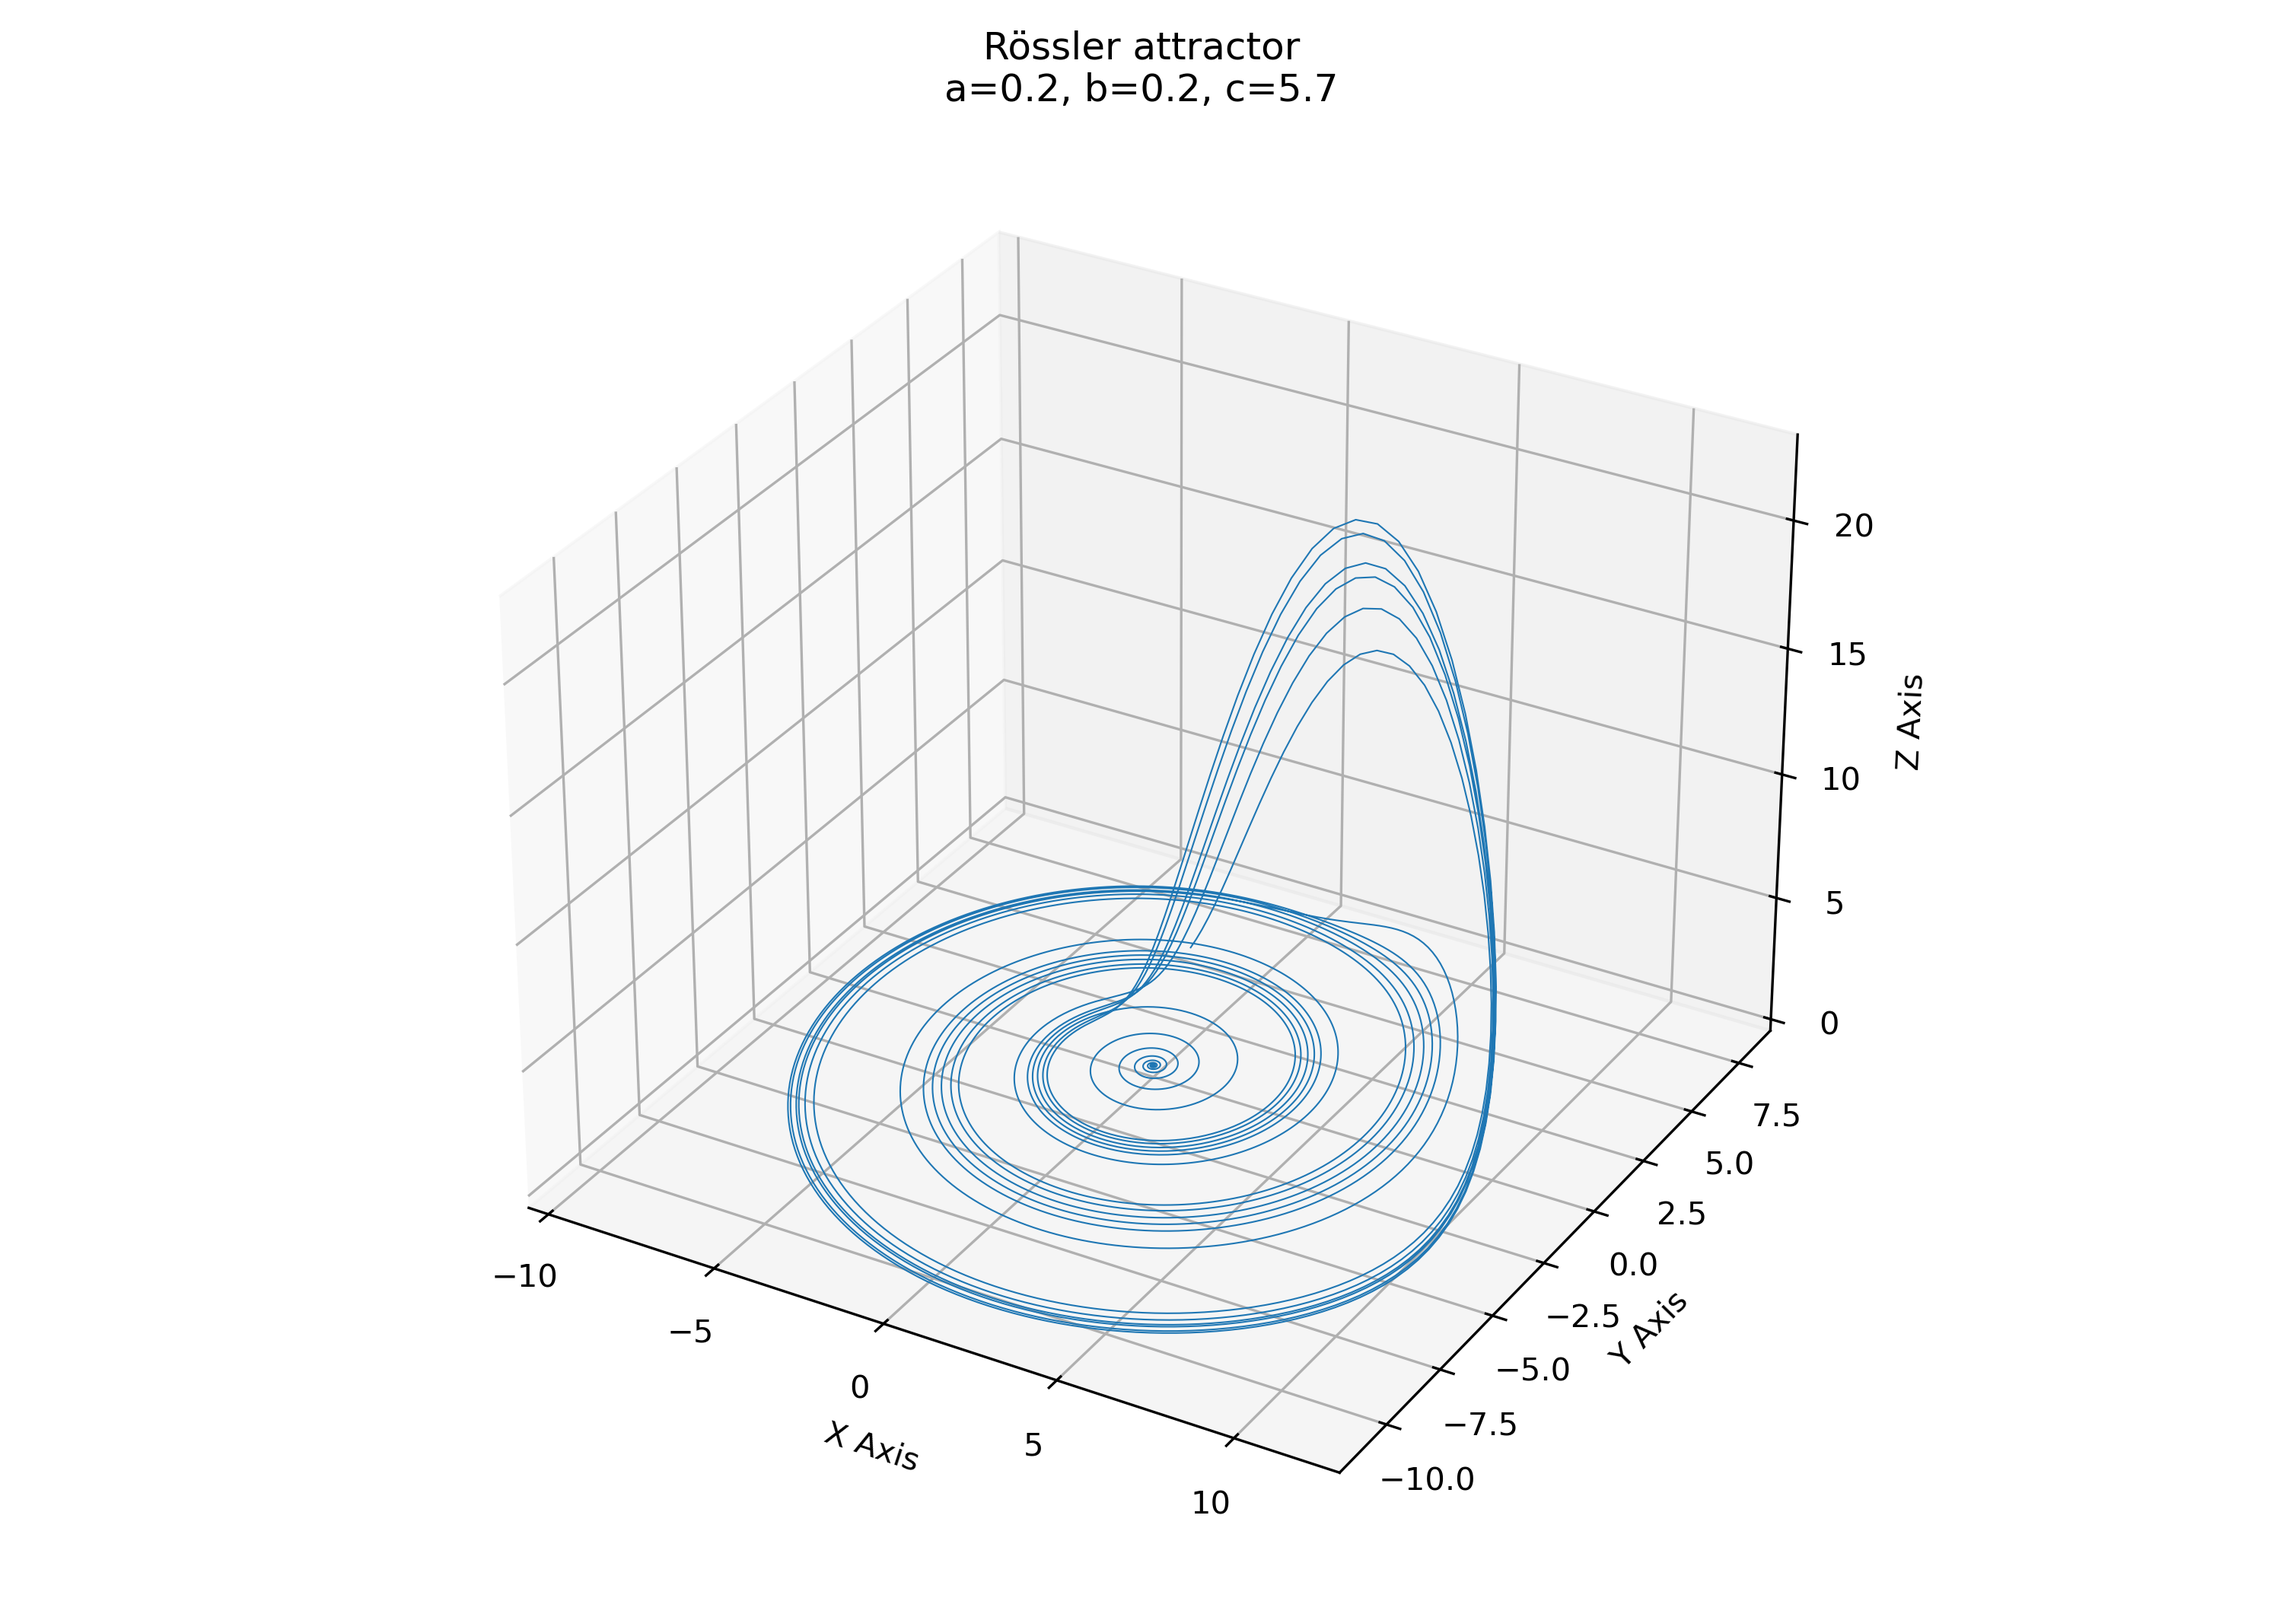
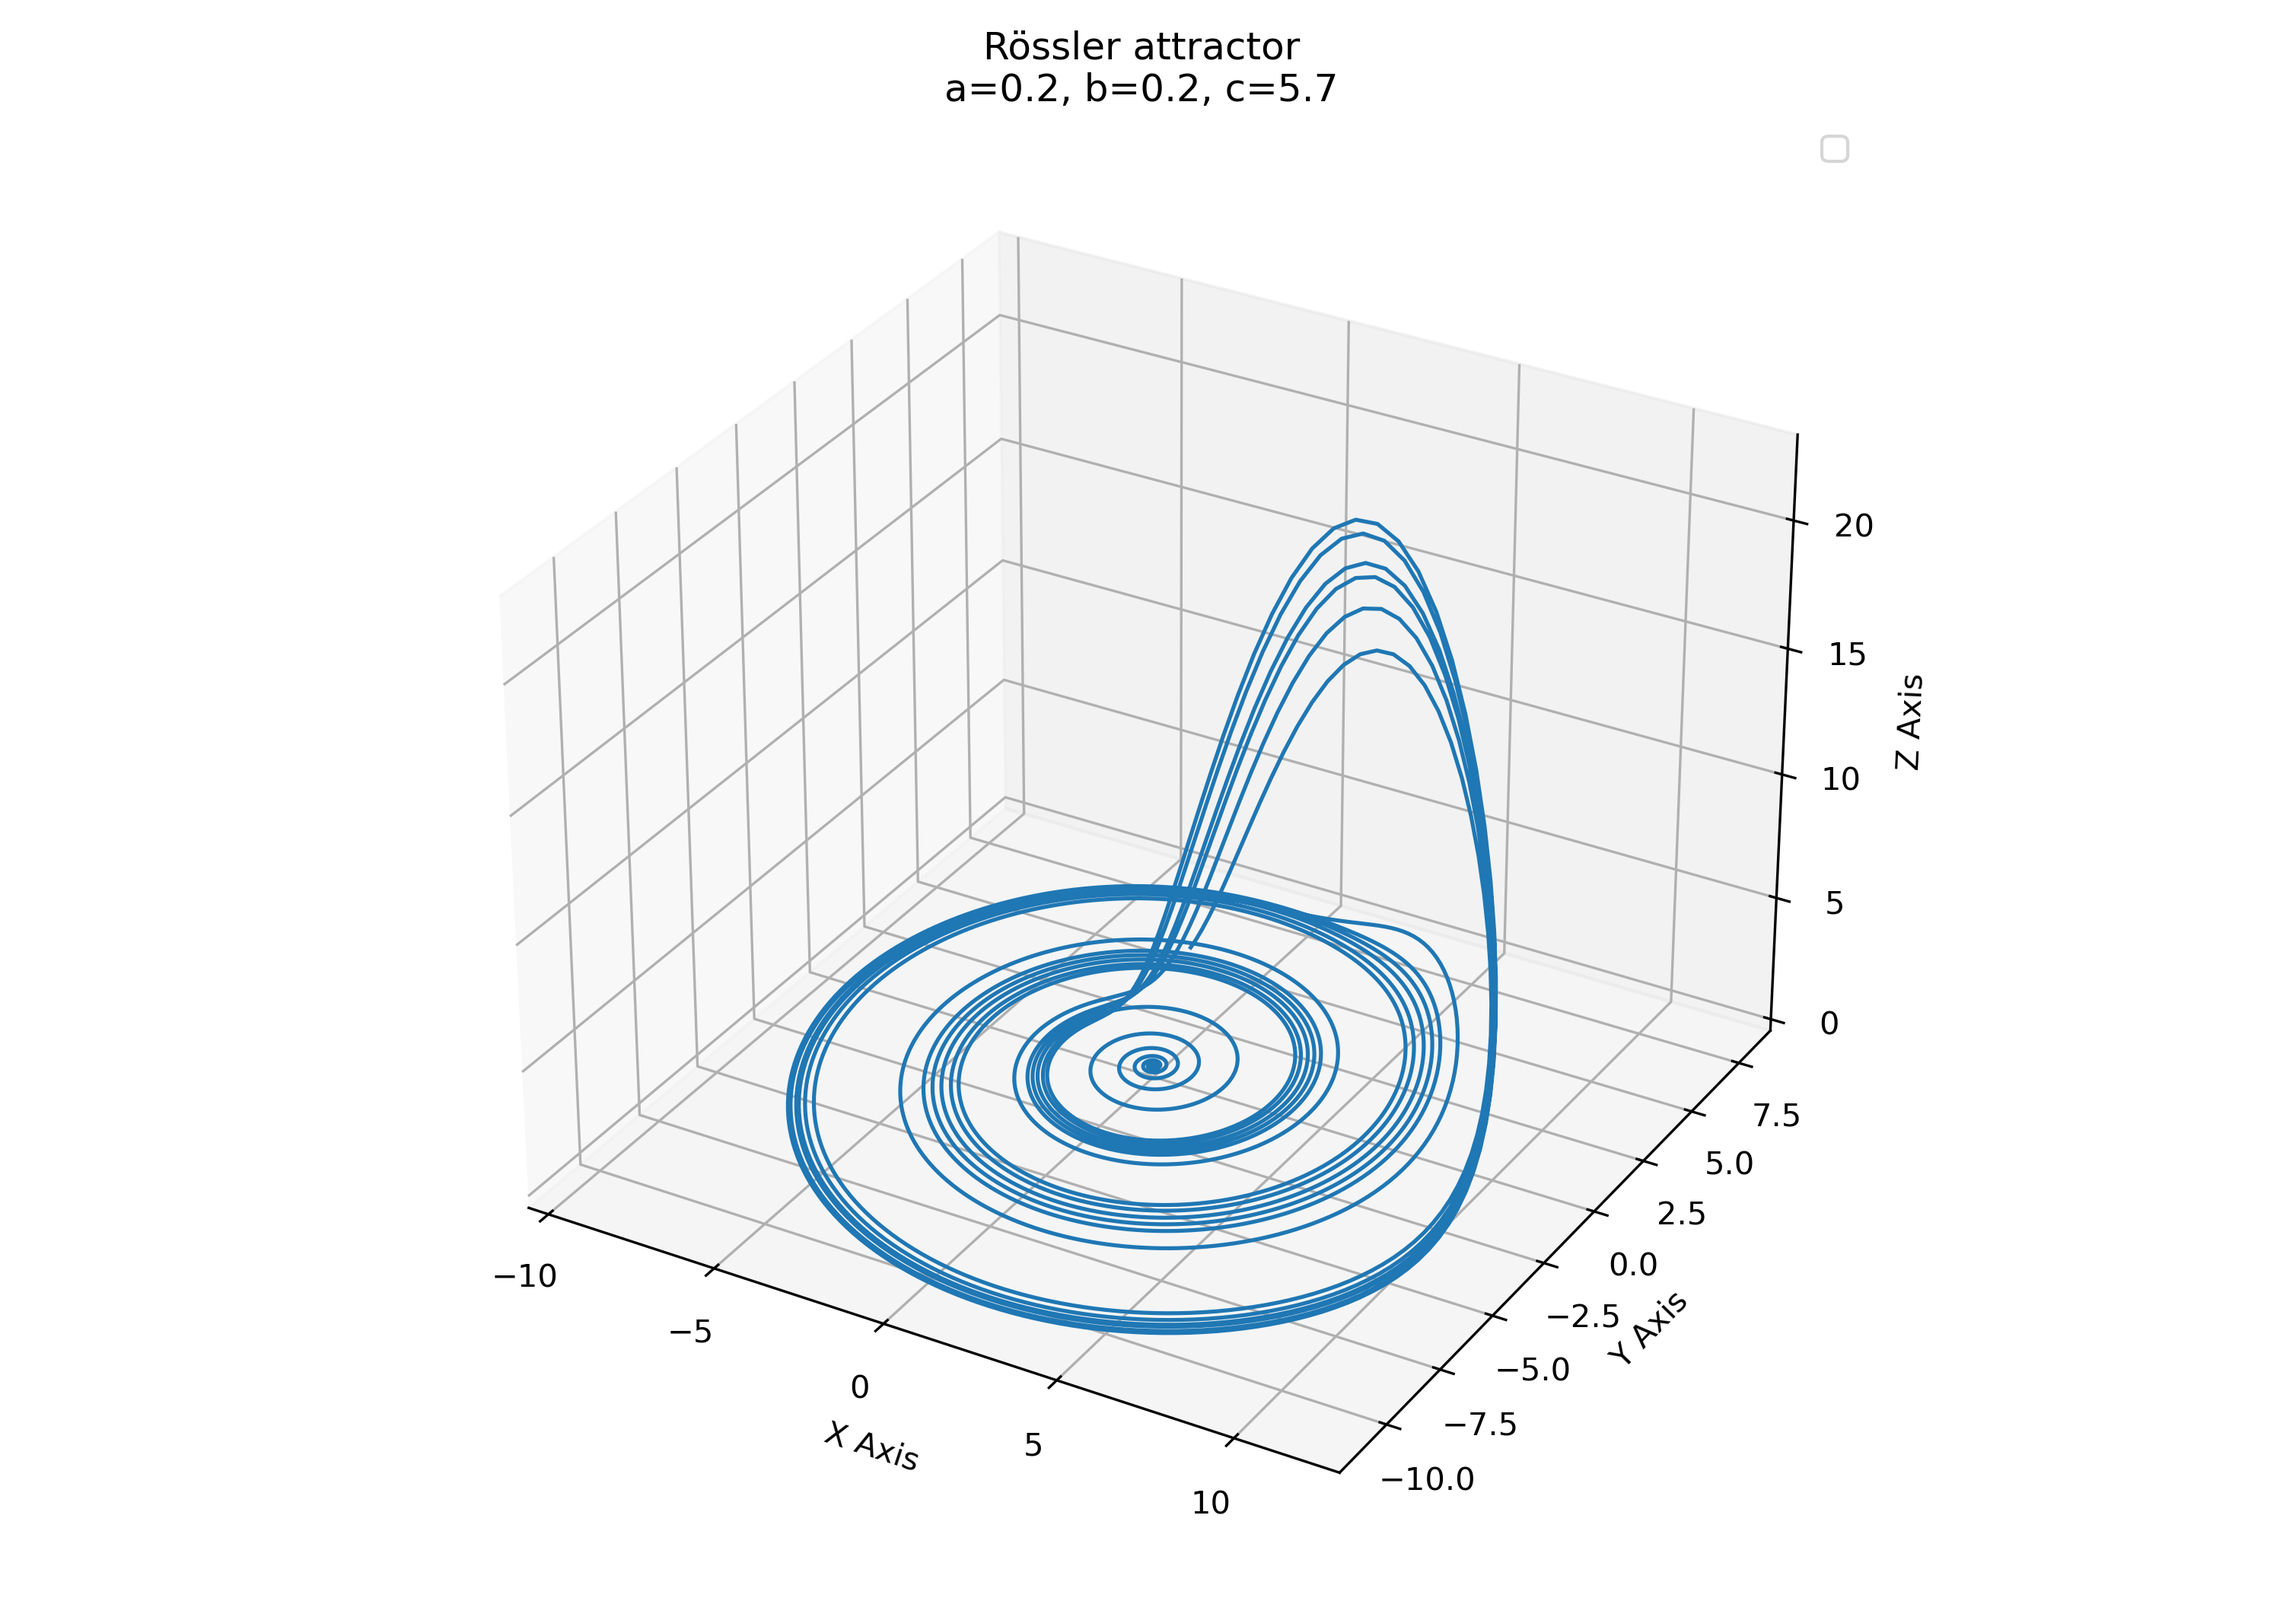
Added fixed points and eigenvectors visualization to Rössler attractor

diff --git a/roessler_attractor.py b/roessler_attractor.py
@@ -28,6 +28,19 @@ step_count = 5000
 
 # initial condition:
 x0, y0, z0 = 0.0, 0.0, 0.0
+
+# calculated centrally located fixed point (for a=0.2, b=0.2, c=5.7):
+z_fixed = (c - np.sqrt(c**2 - 4*a*b)) / (2*a)
+x_fixed = a * z_fixed
+y_fixed = -z_fixed
+fixed_point = np.array([x_fixed, y_fixed, z_fixed])
+
+# set the eigenvectors found for the central fixed point using Rössler's default parameters:
+# (see blog post for details)
+# Eigenvectors
+v1 = np.array([0.7073, -0.07278-0.7032j, 0.0042-0.0007j])
+v2 = np.array([0.7073, 0.07278+0.7032j, 0.0042+0.0007j])
+v3 = np.array([0.1682, -0.0286, 0.9853])
 # %% FUNCTIONS
 # function to calculate the derivatives:
 def roessler_attractor(state, a, b, c):
@@ -53,13 +66,34 @@ for i in range(1, step_count):
 # %% PLOTTING THE ATTRACTOR
 fig = plt.figure(figsize=(10, 7))
 ax = fig.add_subplot(111, projection='3d')
-ax.plot(path[:, 0], path[:, 1], path[:, 2], lw=0.5)
+ax.plot(path[:, 0], path[:, 1], path[:, 2], lw=1.25)
 ax.set_xlabel("X Axis")
 ax.set_ylabel("Y Axis")
 ax.set_zlabel("Z Axis")
 ax.set_title(f"Rössler attractor\na={a}, b={b}, c={c}")
+plt.legend()
 plt.tight_layout()
 plt.savefig("roessler_attractor.png", dpi=300)
+plt.show()
+# %% PLOTTING THE ATTRACTOR AND EIGENVECTORS
+fig = plt.figure(figsize=(10, 7))
+ax = fig.add_subplot(111, projection='3d')
+ax.plot(path[:, 0], path[:, 1], path[:, 2], lw=1.25)
+# plot the fixed point:
+ax.scatter(*fixed_point, s=40, c='r', label="Fixed point 1")
+# plot the real part of the eigenvectors v1, v2, v3, each starting at the fixed point:
+colors = ['g', 'g', 'm']
+for v_i, v in enumerate([v1, v2, v3]):
+    # v_i=1
+    # v = v2
+    ax.quiver(*fixed_point, *v.real, length=10, color=colors[v_i], label=f"Re(v{v_i+1})", lw=1.5)
+ax.set_xlabel("X Axis")
+ax.set_ylabel("Y Axis")
+ax.set_zlabel("Z Axis")
+ax.set_title(f"Rössler attractor\na={a}, b={b}, c={c}")
+plt.legend()
+plt.tight_layout()
+plt.savefig("roessler_attractor_with_fixed_points.png", dpi=300)
 plt.show()
 # %% PLOTTING THE ANIMATION
 fig = plt.figure()
